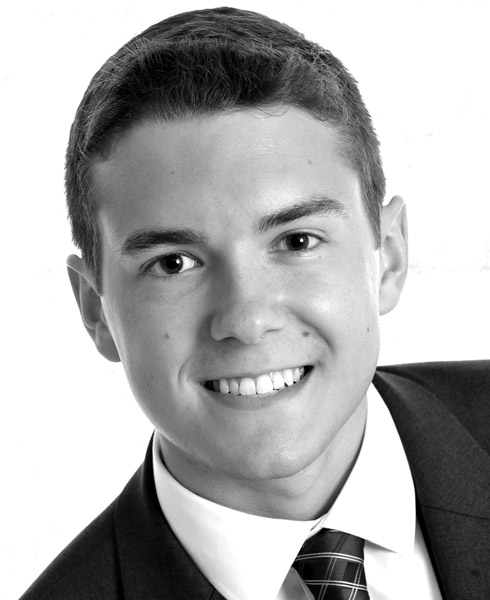
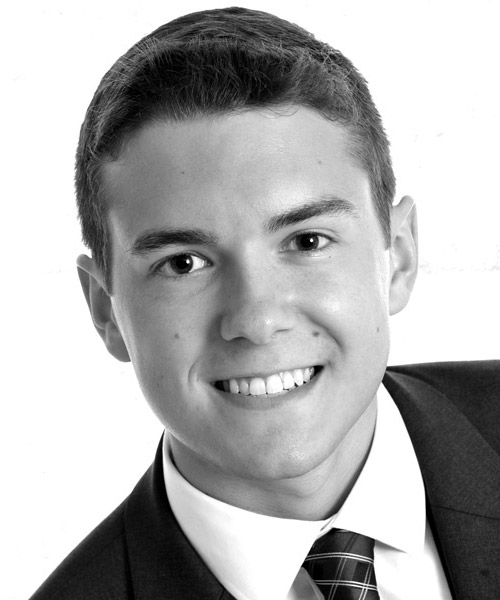
left/right panel with backgrounds, padding

diff --git a/src/index.html b/src/index.html
@@ -2,14 +2,20 @@
 	<head>
 		<title>Cosmos Darwin - Online Presence</title>
 		<link href="static/css/style.css" rel="stylesheet" type="text/css">
+		<link href="static/css/social.css" rel="stylesheet" type="text/css">
 		<link href='http://fonts.googleapis.com/css?family=Lato:100,300,400,700,900,100italic,300italic,400italic,700italic,900italic' rel='stylesheet' type='text/css'>
 	</head>
 	<body>
+		<!--div class="slide">
+			<img src="static/img/interior-of-carousel.jpg"/>
+		</div-->
 		<div class="slide">
-			<div class="about-content">
+			<div class="leftpanel">
+				<div class="leftpanel_content">
 				<span id="firstname">cosmos</span><br/>
 				<span id="lastname">DARWIN</span><br/><br/>
 
+				<br>
 				Hi! My name is Cosmos Darwin. I'm an undergraduate at MIT majoring with Mathematics and Computer Science, with additional interests in design and leadership.<br/><br/>
 
 				I've worked in design|ux for Adobe Systems, in my role as Simmons Hall Publicity Chair, and on many side projects  side projects of my own.<br/><br/>
@@ -19,7 +25,14 @@
 				My film work, showcased on this website and on YouTube, has won a handful of competitions and earned hundreds of thousands of views online.<br/><br/>
 
 				Check out my portfolio for samples of my  work!<br/><br/>
-			</div>
+
+				<a href="http://twitter.com/cosmosdarwin" class="social" id="twitter" target="_blank" style="position: absolute; top:480px; left:0px;"><span></span></a>
+				<a href="http://www.facebook.com/cosmosdarwin" class="social" id="facebook" target="_blank" style="position: absolute; top:480px; left:30px;"><span></span></a>
+				<a href="http://www.linkedin.com/in/cosmosd" class="social" id="linkedin" target="_blank" style="position: absolute; top:480px; left:60px;"><span></span></a>
+				<a href="http://www.youtube.com/cosmosdarwin" class="social" id="youtube" target="_blank" style="position: absolute; top:480px; left:91px;"><span></span></a>
+				</div>
+		</div>
+		<div class="rightpanel"></div>
 		</div>
 		<div class="nav-bar">
 			<center>
@@ -31,7 +44,10 @@
 						<center>ABOUT</center>
 					</div>
 					<div class="nav-link">
-						<center><a href="portfolio.html">PORTFOLIO</a></center>
+						<center>DESIGN</center>
+					</div>
+					<div class="nav-link">
+						<center>FILM</center>
 					</div>
 				</div>
 			</center>

diff --git a/src/static/css/style.css b/src/static/css/style.css
@@ -1,9 +1,39 @@
-body{background-image:url("../img/back.jpg");height:100%;width:100%;margin:0px;color:#535353;font-size:18px;font-family:'Lato',sans-serif;font-weight:300;}
+body{background-image:url("../img/back.jpg");height:100%;width:100%;margin:0px;color:#535353;font-size:16px;font-family:'Lato',sans-serif;font-weight:400;}
+
 #firstname{color:#535353;font-size:60px;}
+
 #lastname{color:#1164c3;line-height:40px;font-weight:bold;font-size:60px;}
-.slide{background-color:#ffffff;position:relative;top:50%;left:50%;margin-top:-360px;margin-left:-500px;height:600px;width:1000px;-moz-box-shadow:0 0 15px rgba(33, 33, 33, 0.2);-webkit-box-shadow:0 0 15px rgba(33, 33, 33, 0.2);box-shadow:0 0 15px rgba(33, 33, 33, 0.2);}
-.about-content{position:relative;top:50px;left:50px;width:500px;max-height:550px;}
+
+.slide{background-color:#FFFFFF;position:relative;top:50%;left:50%;margin-top:-360px;margin-left:-500px;height:600px;width:1000px;-moz-box-shadow:0 0 15px rgba(33, 33, 33, 0.2);-webkit-box-shadow:0 0 15px rgba(33, 33, 33, 0.2);box-shadow:0 0 15px rgba(33, 33, 33, 0.2);}
+
+.leftpanel{
+	position:absolute;
+	top:0px; left:0px;
+	background-image:url('../img/left-panel-background.jpg');
+	width:500px;
+	height:600px;
+}
+.leftpanel_content{
+	position:absolute;
+	top:50px; left:50px;
+	width:400px;
+	height:500px;
+	text-align:justify;
+}
+
+.rightpanel{
+	position:absolute;
+	top:0px; left:500px;
+	background-image:url('../img/cosmos-darwin.jpg');
+	width:500px;
+	height:600px;
+}
+
+
 .nav-bar{background-color:#1164c3;position:fixed;width:100%;height:120px;bottom:0px;float:left;}
+
 .nav-links{width:650px;}.nav-links .current{font-weight:bold;}
+
 .nav-link{line-height:120px;float:left;margin-left:20px;margin-right:20px;color:#ffffff;font-size:40px;}.nav-link a{color:#ffffff;text-decoration:none;}
+
 .canada-fuck-yea{position:relative;float:right;top:38px;margin-right:100px;}

diff --git a/src/static/css/social.css b/src/static/css/social.css
@@ -1,0 +1,42 @@
+.social{
+  display: inline-block;
+  position: absolute;
+  width: 20px;
+  height: 20px;
+}
+.social span {
+  position: absolute;
+  top: 0;
+  left: 0;
+  bottom: 0;
+  right: 0;
+  opacity: 0;
+  -webkit-transition: opacity 0.4s;
+  -moz-transition: opacity 0.4s;
+  -o-transition: opacity 0.4s;
+  transition: opacity 0.4s;
+}
+.social:hover span {
+  opacity: 1;
+}
+
+#youtube{background: url(../img/youtube.jpg) no-repeat;}
+#youtube span {
+  background: url(../img/youtube.jpg) no-repeat;
+  background-position: -20px 0;
+}
+#twitter{background: url(../img/twitter.jpg) no-repeat;}
+#twitter span {
+  background: url(../img/twitter.jpg) no-repeat;
+  background-position: -20px 0;
+}
+#facebook{background: url(../img/facebook.jpg) no-repeat;}
+#facebook span {
+  background: url(../img/facebook.jpg) no-repeat;
+  background-position: -20px 0;
+}
+#linkedin{background: url(../img/linkedin.jpg) no-repeat;}
+#linkedin span {
+  background: url(../img/linkedin.jpg) no-repeat;
+  background-position: -20px 0;
+}
